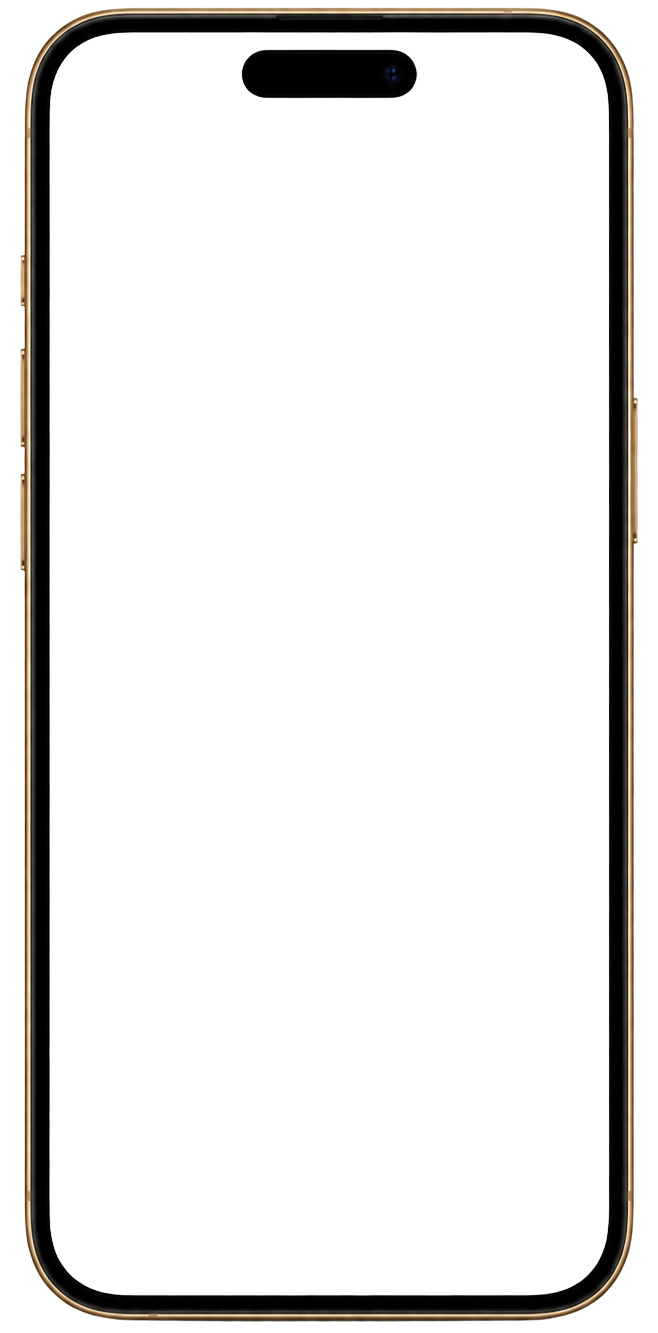
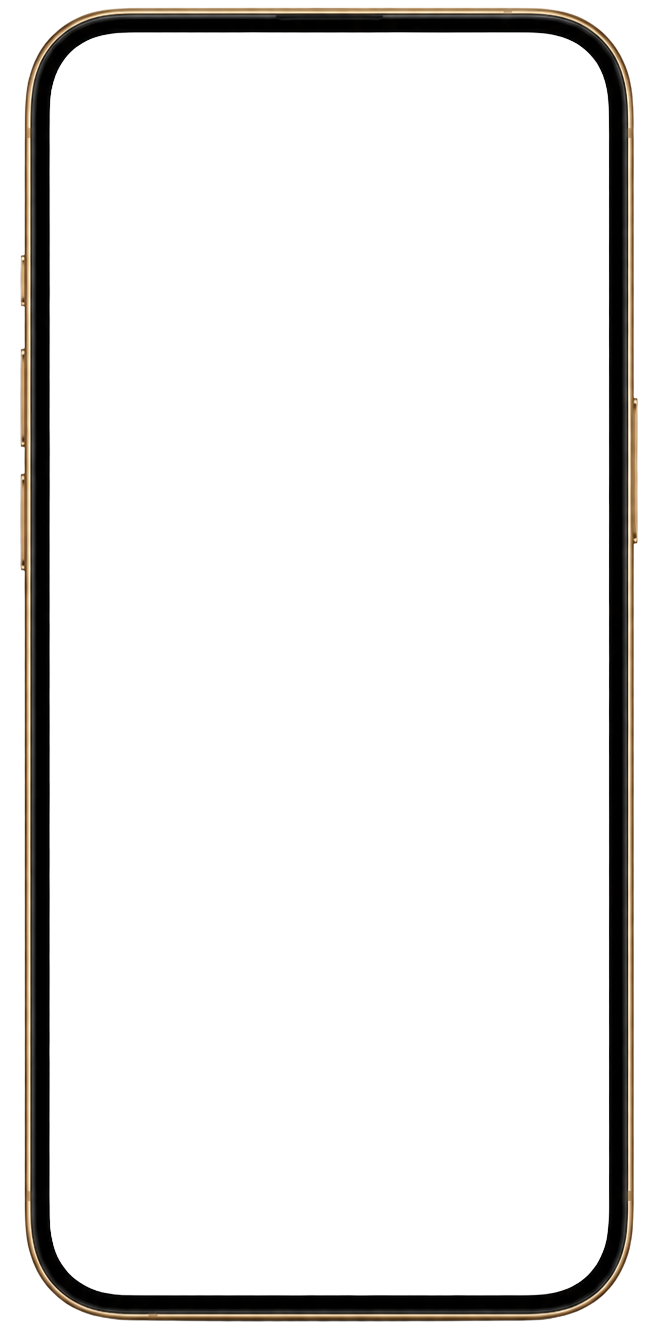
r43-phonenonotch: remove the Dynamic Island from the iPhone frame
The black notch/camera pill was baked into iphone.png (not code). Cleared
the Dynamic Island region (bbox ~x242-416, y49-97) to transparent so the
site shows edge-to-edge under the top bezel — no camera-looking black shape.
The frame's top bezel is untouched (the cleared box sits inside the glass,
below the bezel). git history holds the original if we ever want it back.

Changed region(s): [[0.3647, 0.0308, 0.6383, 0.0923]]

diff --git a/components/SelectedWork.tsx b/components/SelectedWork.tsx
@@ -108,7 +108,7 @@ function quadMatrix3d(
 /** bumped with every motion-fix round — printed to the console and shown
  *  in the ?swdebug HUD so there is never any doubt WHICH code is running
  *  in the browser being tested */
-const BUILD_TAG = "r42-phonenobar-10.07";
+const BUILD_TAG = "r43-phonenonotch-10.07";
 const pad = (n: number) => String(n + 1).padStart(2, "0");
 const clamp01 = (v: number) => Math.min(1, Math.max(0, v));
 
